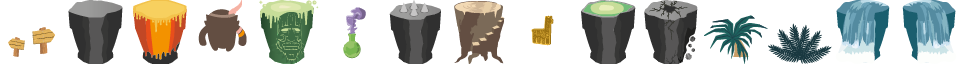
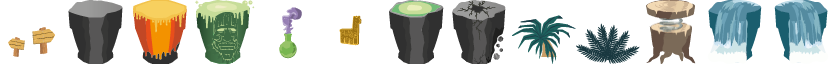
added tree jump

diff --git a/Down The Mountain/assets/scripts/Player.js b/Down The Mountain/assets/scripts/Player.js
@@ -57,6 +57,34 @@ cc.Class({
         this.group.player.runAction(cc.sequence(spawn,cc.callFunc(this.group.moveFinished, this.group)));
 
 	},
+    
+    move: function(nextX, nextY, left){
+
+
+	    var bezierX = 10;
+        if(this.group.player.getPosition().x > nextX){
+              bezierX *= -1;
+        }
+
+        var flip = cc.flipX(left);
+
+        var flipValue = 1;
+        if (!left){
+            flipValue *= -1;
+        }
+
+        var jumpAction = cc.sequence(cc.scaleTo(0.15, 0.9*flipValue, 1.3),cc.scaleTo(0.15, 1*flipValue, 1.0));
+
+
+	    var bezier = [cc.p(this.group.player.getPosition().x - bezierX, this.group.player.getPosition().y), cc.p(nextX,nextY), cc.p(nextX,nextY)];
+        var bezierTo = cc.bezierTo(0.15, bezier);
+
+        var spawn = cc.spawn(flip, jumpAction, bezierTo);
+
+
+        this.group.player.runAction(cc.sequence(spawn,cc.callFunc(this.group.moveFinished, this.group)));
+
+	},
 
     // called every frame, uncomment this function to activate update callback
     // update: function (dt) {

diff --git a/Down The Mountain/assets/scripts/HexagonGroup.js b/Down The Mountain/assets/scripts/HexagonGroup.js
@@ -152,7 +152,7 @@ cc.Class({
 
         switch (style){
             case 1:
-            rows_ground = [[1,1,11,1,44],[1,1,41,1],[44,1,1,1,1],[1,1,43,1],[44,32,1,1,44],[32,1,10,1],[31,1,41,10,1],[31,41,10,1],[1,31,41,10,7],[7,1,10,42],[1,1,1,1,44],[1,43,1,44]];
+            rows_ground = [[1,1,11,1,44],[1,13,41,1],[44,1,1,1,1],[1,1,43,1],[44,32,1,1,44],[32,1,10,1],[31,1,41,10,1],[31,41,10,1],[1,31,41,10,7],[7,1,10,42],[1,1,1,1,44],[1,43,1,44]];
             break;
         }
         var tempGroundArray = [];
@@ -414,6 +414,9 @@ cc.Class({
             break;
             case 12:
             result= "potion";
+            break;
+            case 13:
+            result= "treejump";
             break;
             case 99:
             result= "missing";

diff --git a/Down The Mountain/assets/resources/LevelCreator/Tiles_WonkyWoods.tsx b/Down The Mountain/assets/resources/LevelCreator/Tiles_WonkyWoods.tsx
@@ -36,6 +36,9 @@
  <tile id="44">
   <image width="64" height="64" source="Tiles/isocube_tree.png"/>
  </tile>
+ <tile id="13">
+  <image width="64" height="64" source="Tiles/treejump.png"/>
+ </tile>
   <tile id="99">
   <image width="64" height="64" source="Tiles/leer.png"/>
  </tile>

diff --git a/Down The Mountain/assets/scripts/Hexagon.js b/Down The Mountain/assets/scripts/Hexagon.js
@@ -37,6 +37,7 @@ cc.Class({
             POISON: 'posion',
             SPIKE: 'zacken',
             MISSING: 'missing',
+            JUMP: 'jump',
         };
 
         this.playerStatus = 'neutral';
